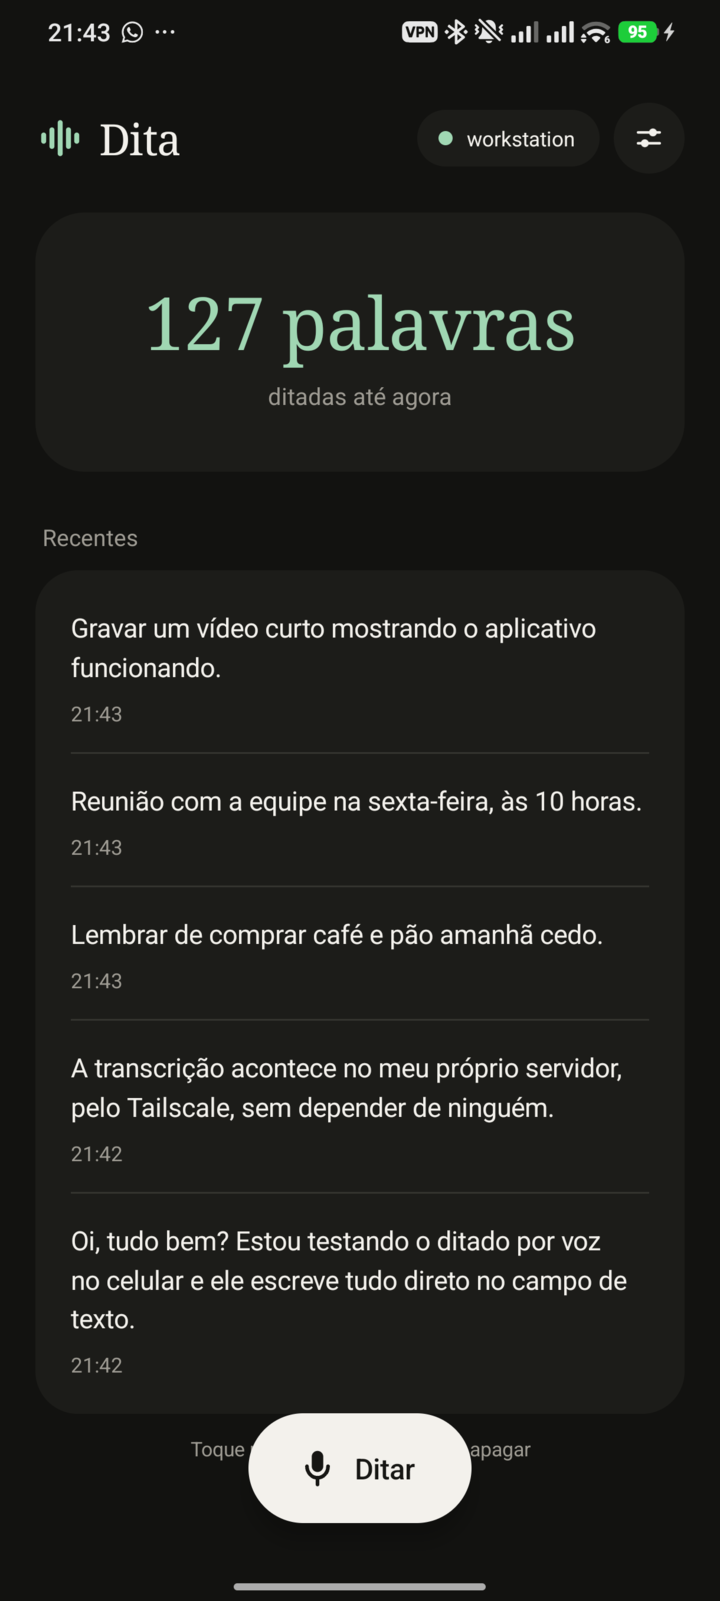
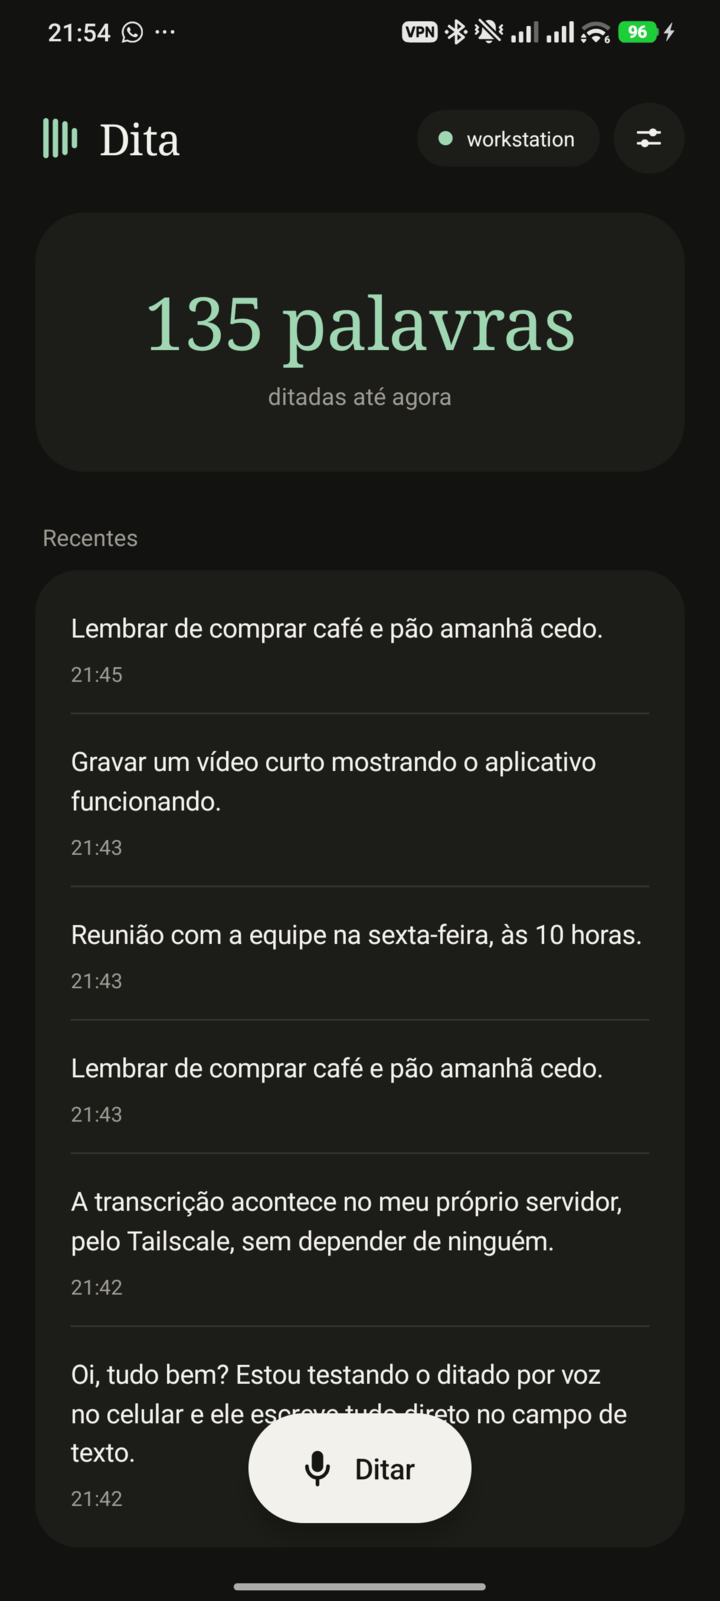
Ícone mais simples: quatro barras formando o D
Versão escolhida entre três variações: menos traços, mais respiro.
Logo do app e prints do README atualizados.

diff --git a/app/src/main/java/company/cubo/dita/Ui.kt b/app/src/main/java/company/cubo/dita/Ui.kt
@@ -108,9 +108,9 @@ class Glyph(ctx: Context, private val kind: Int, color: Int) : View(ctx) {
                 c.drawCircle(9f * u, 16f * u, 2.9f * u, p)
             }
             WAVE -> {
-                // a marca: barras de onda sonora que desenham um D
-                p.strokeWidth = 2.3f * u
-                line(4.6f, 3.8f, 4.6f, 20.2f); line(8.3f, 3.9f, 8.3f, 20.1f); line(12.0f, 4.3f, 12.0f, 19.7f); line(15.7f, 5.3f, 15.7f, 18.7f); line(19.4f, 8.3f, 19.4f, 15.7f)
+                // a marca: quatro barras de onda sonora que desenham um D
+                p.strokeWidth = 2.6f * u
+                line(5.1f, 3.6f, 5.1f, 20.4f); line(9.7f, 3.9f, 9.7f, 20.1f); line(14.3f, 5.1f, 14.3f, 18.9f); line(18.9f, 8.4f, 18.9f, 15.6f)
             }
             MIC -> {
                 rect.set(9.5f * u, 4f * u, 14.5f * u, 14f * u)
